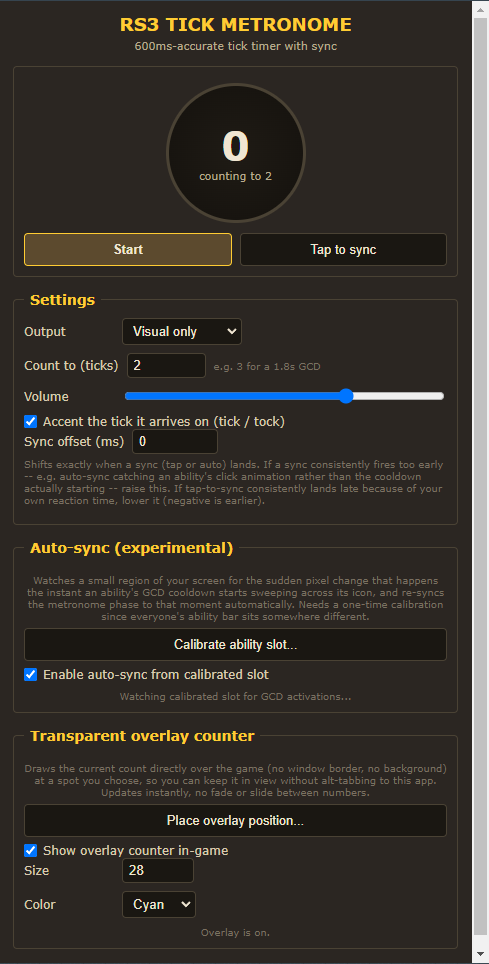
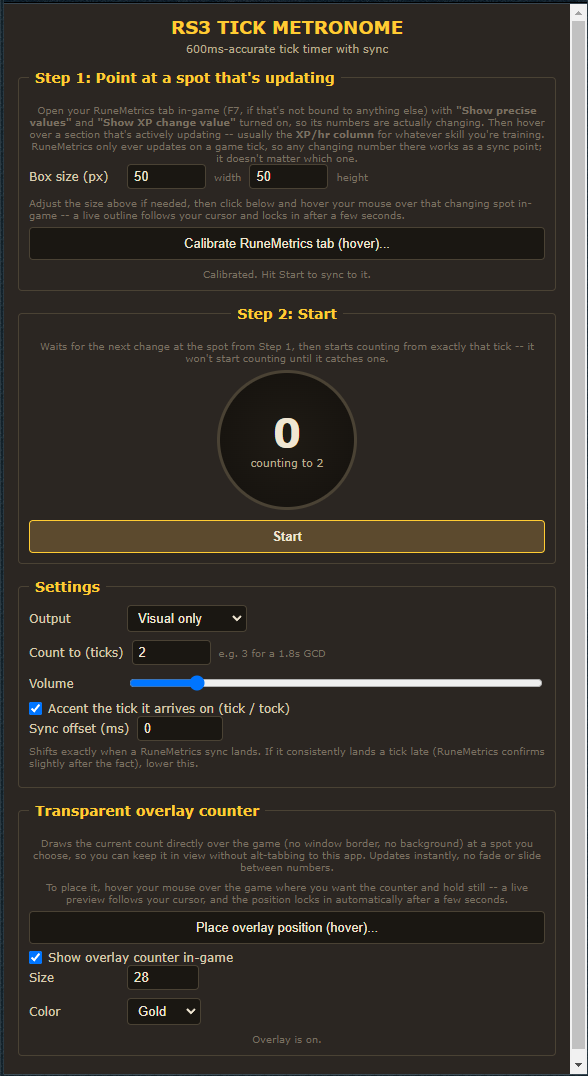
Only flash the counting circle on the arrival tick, not the whole app window and Update main screenshot to the current two-step UI

diff --git a/app.js b/app.js
@@ -52,7 +52,6 @@ document.addEventListener("DOMContentLoaded", () => {
   const tickFace = document.getElementById("tick-face");
   const tickCountEl = document.getElementById("tick-count");
   const tickTargetLabel = document.getElementById("tick-target-label");
-  const flashOverlay = document.getElementById("flash-overlay");
   const modeSelect = document.getElementById("mode-select");
   const tickTargetInput = document.getElementById("tick-target-input");
   const volumeInput = document.getElementById("volume-input");
@@ -98,15 +97,11 @@ document.addEventListener("DOMContentLoaded", () => {
 
     if (isArrival && (settings.mode === "visual" || settings.mode === "both")) {
       tickFace.classList.remove("pulse", "pulse-accent");
-      flashOverlay.classList.remove("flash", "flash-accent");
       void tickFace.offsetWidth; // force reflow so the animation restarts
       const cls = settings.accent ? "pulse-accent" : "pulse";
-      const flashCls = settings.accent ? "flash-accent" : "flash";
       tickFace.classList.add(cls);
-      flashOverlay.classList.add(flashCls);
       setTimeout(() => {
         tickFace.classList.remove(cls);
-        flashOverlay.classList.remove(flashCls);
       }, 140);
     }
 
@@ -147,7 +142,6 @@ document.addEventListener("DOMContentLoaded", () => {
       startStopBtn.classList.remove("running", "waiting");
       tickCountEl.textContent = "0";
       tickFace.classList.remove("pulse", "pulse-accent");
-      flashOverlay.classList.remove("flash", "flash-accent");
       overlay.clear();
       if (xpSyncWaiting) stopXpSyncOnce(wasWaiting ? "Cancelled." : "Stopped.");
     }

diff --git a/styles.css b/styles.css
@@ -177,18 +177,3 @@ button.primary.waiting:hover { background: #5c4826; }
   min-height: 12px;
 }
 
-#flash-overlay {
-  position: fixed;
-  inset: 0;
-  pointer-events: none;
-  background: rgba(255, 204, 51, 0);
-  transition: background 60ms linear;
-  z-index: 999;
-}
-#flash-overlay.flash {
-  background: rgba(255, 204, 51, 0.28);
-}
-#flash-overlay.flash-accent {
-  background: rgba(255, 154, 60, 0.4);
-}
-

diff --git a/index.html b/index.html
@@ -12,8 +12,6 @@
   <h1>RS3 TICK METRONOME</h1>
   <div class="subtitle">600ms-accurate tick timer with sync</div>
 
-  <div id="flash-overlay"></div>
-
   <fieldset>
     <legend>Step 1: Point at a spot that's updating</legend>
     <div class="footer-note">

diff --git a/README.md b/README.md
@@ -38,7 +38,7 @@ A drift-corrected 600ms scheduler fires every tick. Each tick:
 
 - Advances a counter from 1 up to whatever you've set "Count to" as (3 by default, for the 1.8s GCD), then wraps back to 1. The number changes instantly -- no fade or slide -- both in the app window and on the overlay.
 - Plays a short click -- a lower "tock" on ordinary ticks, and (if "accent" is on) a higher-pitched "tick" the instant it *arrives* on the tick you're counting to, so you can hear that boundary without looking.
-- Flashes the on-screen dial and the whole app window, but only on that arrival tick -- not on every tick. If you're counting to 3, you'll see 1, 2, 3(flash), 1, 2, 3(flash)... rather than a flash every beat.
+- Flashes the on-screen dial (just the counting circle, not the whole app window), but only on that arrival tick -- not on every tick. If you're counting to 3, you'll see 1, 2, 3(flash), 1, 2, 3(flash)... rather than a flash every beat.
 
 ### Staying in sync
 
